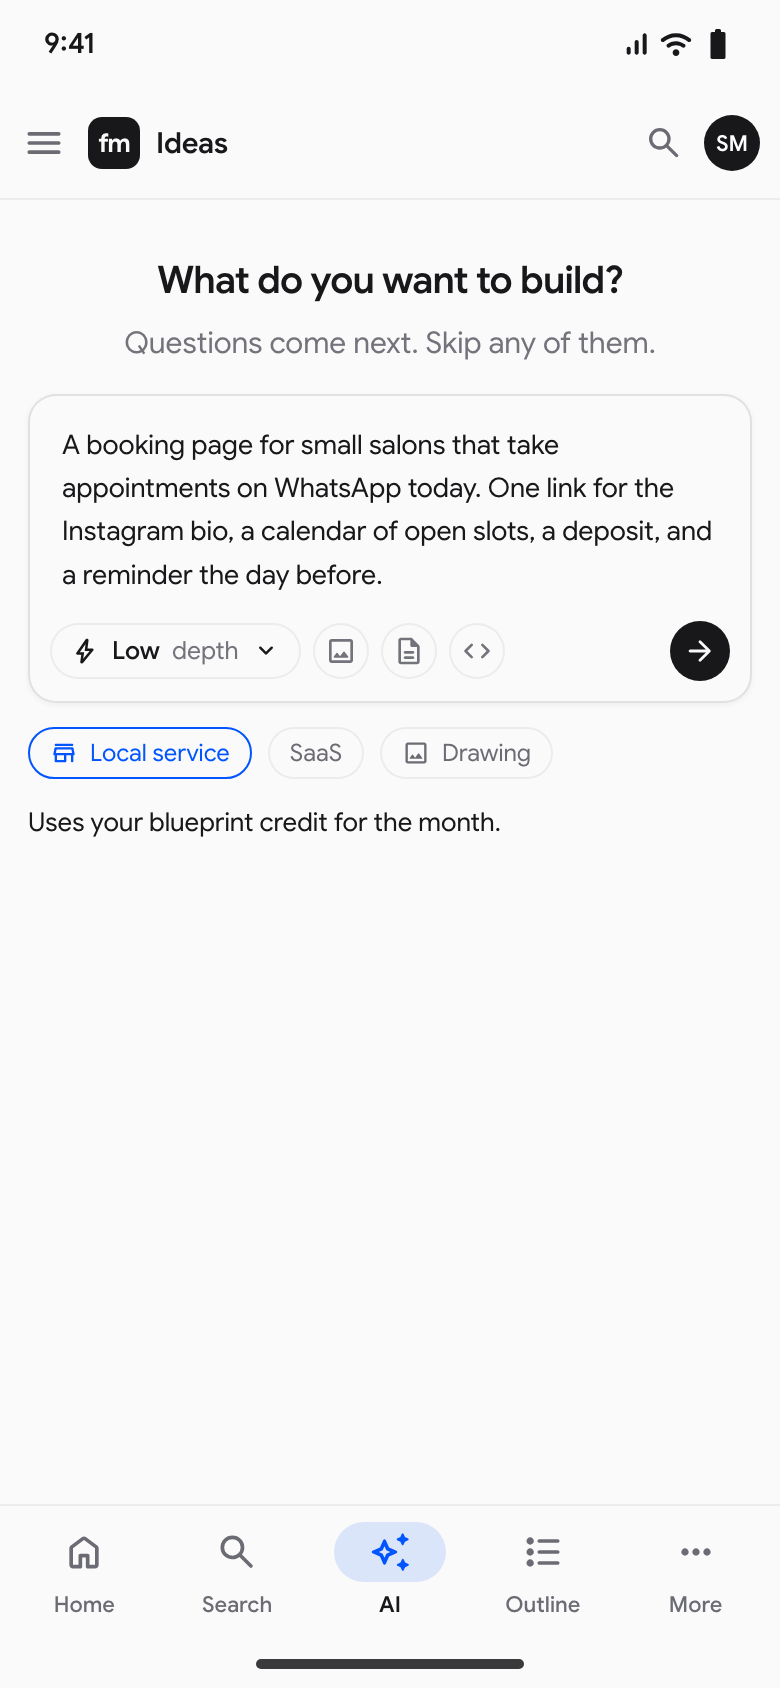
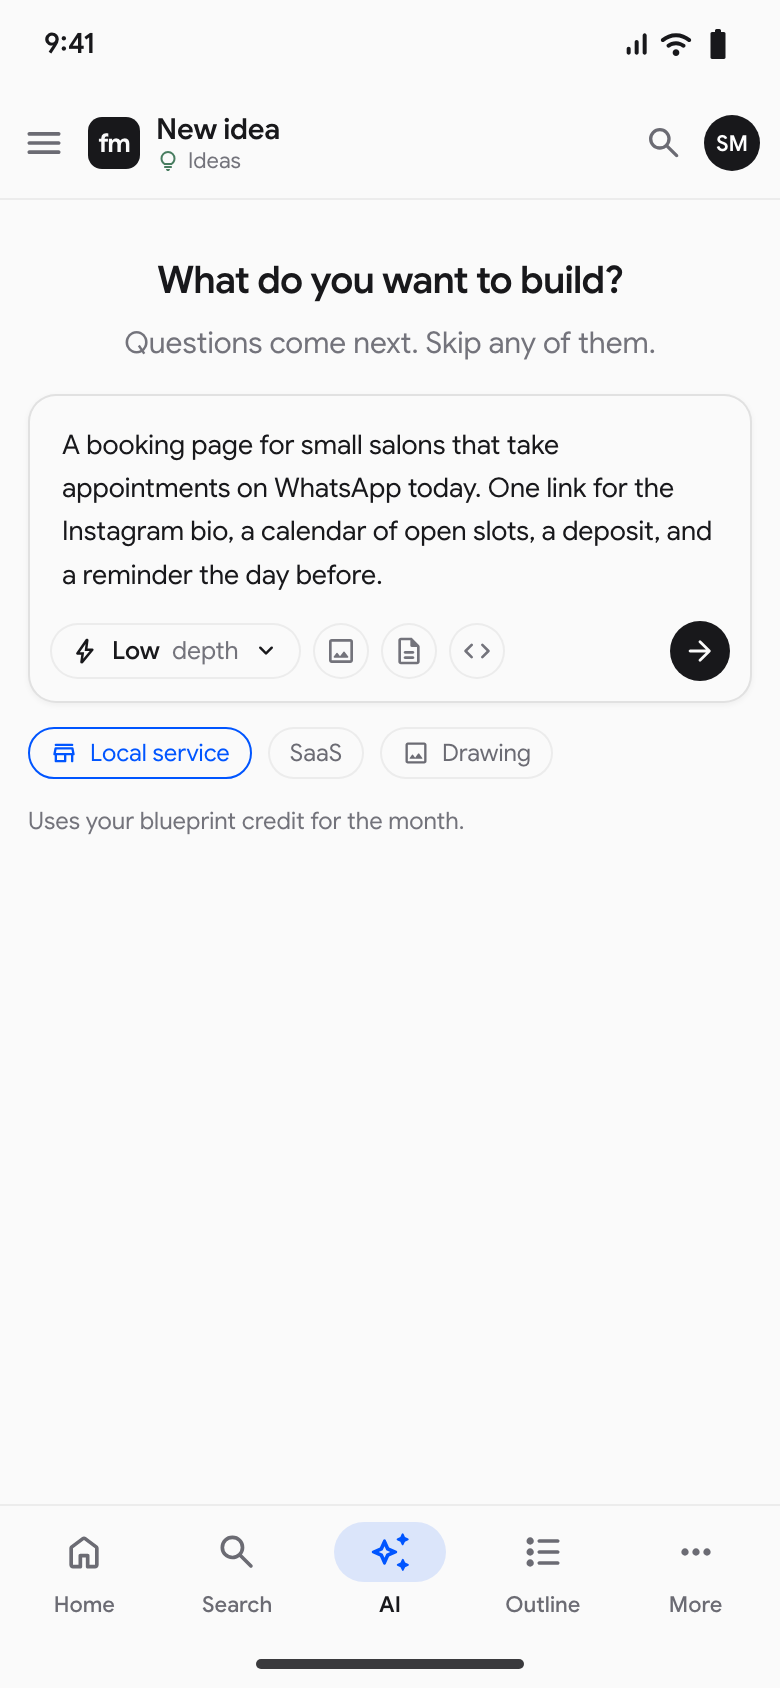
screens: ideas live in the workspace tree, S34 loses its breadcrumb, and the standard question set is drawn
S12, S13, S14 and S34 now sit in the workspace with the Ideas section of the tree
expanded, rather than on a route with its own sidebar. S34 is rebuilt on S12's column and
input. S13 carries the standard question set switch and the rewrites left on Free, S32
offers it for an idea, and the S13 and S14 phones pin Skip, Choose recommendation, Next
and Skip all to the foot as on the desktop.

Changed region(s): [[0.0308, 0.4621, 0.6154, 0.4929], [0.1846, 0.0616, 0.3692, 0.1232]]

diff --git a/docs/mvp0/PRODUCT-PLAN.md b/docs/mvp0/PRODUCT-PLAN.md
@@ -280,9 +280,9 @@ Later, named | A Max tier above Pro; a community as an opt-in index plus GitHub 
 3. The problems panel.
 4. The instruction-file health panel.
 
-**Ideas.** A separate tab.
+**Ideas.** A collapsed section at the foot of the workspace tree, the way the outline sits on the right. There is no separate tab or route `[Z]`.
 
-- Ideas are listed on the left, with their state.
+- Ideas are listed in that section, with their state. Opening one expands the section and folds the projects above it.
 - The idea, its attachments and the industry template sit in the middle.
 - **Choose a depth. Answer.**
 - The blueprint is written, checked for consistency, and published at an unlisted link.
@@ -337,7 +337,7 @@ Later, named | A Max tier above Pro; a community as an opt-in index plus GitHub 
 
 <div class="pair"><img src="screens/s03-home.png"><img src="screens/s03-home-phone.png"></div>
 
-- Recent documents with project, opened and owner. The Ideas tab carries a count.
+- Recent documents with project, opened and owner. The Ideas count sits on the home tabs; in the workspace, ideas are a section of the tree.
 - A quiet pill shows cloud documents used against the cap.
 - The phone shows four starts and the list.
 
@@ -452,11 +452,12 @@ Later, named | A Max tier above Pro; a community as an opt-in index plus GitHub 
 
 <div class="pair"><img src="screens/s12-ideas.png"><img src="screens/s12-ideas-phone.png"></div>
 
-- Ideas listed on the left with their state: draft, decided so far, blueprint version.
+- **Inside the workspace.** Ideas is the collapsed section at the foot of the tree; opening it lists the ideas with their state (draft, decided so far, blueprint version), and a new idea opens as a tab like a document `[Z]`.
+- One centred column and one input, the way Claude and ChatGPT start. No step breadcrumb.
 - The idea, an attached drawing, a document or a repository. An industry template, or one generated for your industry. The drawing is described in the frontend spec the kit now carries (F025).
 - The depth chooser: Low free, Medium Pro, High Pro plus credits. Start at Low and go deeper later without losing answers.
 
-**Why.** `[Z]` a separate tab with ideas on the left. `[Z]` the three depths. `[M]` Nielsen's progressive disclosure has two levels at most, and this is the second.
+**Why.** `[Z]` ideas as a section of the workspace, collapsed until wanted, answered on 18 September. `[Z]` the three depths. `[M]` Nielsen's progressive disclosure has two levels at most, and this is the second.
 
 ### S13. Idea mode, Low
 
@@ -473,6 +474,8 @@ Later, named | A Max tier above Pro; a community as an opt-in index plus GitHub 
 - Only the recommended option carries its reason. Not sure is a quiet link, not a third option in every card.
 - Not sure records the question as open and takes the recommendation for now; DECISIONS.md carries it as open, not as decided.
 - The blueprint's fifteen files are listed before a credit is spent.
+- **Use a standard question set** is a switch under the page controls, off by default. It is the fallback when the model layer is degraded or the rewrites are spent, and it shows how many rewrites are left on Free.
+- **The phone carries the same controls as the desktop**: Skip and Choose recommendation, then Next, pinned to the foot of the screen, with Skip all added from page two.
 
 **Why.** `[Z]` the founders' review of 18 September. `[Z]` 10 to 15 questions on the free plan. `[M]` PAIR: show alternatives rather than confidence, "Showing multiple options prompts the user to rely on their own judgement."
 
@@ -679,7 +682,8 @@ Later, named | A Max tier above Pro; a community as an opt-in index plus GitHub 
 <div class="pair"><img src="screens/s32-ai-unavailable.png"><img src="screens/s32-ai-unavailable-phone.png"></div>
 
 - The AI box when every provider in the chain has refused or timed out: the document is untouched, nothing was charged, try again in a minute, or on the desktop use the local model.
-- The status of each provider in the chain, so the person knows it is not their document.
+- The status of each provider in the chain, in its real order with OpenRouter in it, so the person knows it is not their document.
+- For an idea, one more path: use the standard question set, which needs no model.
 
 **Why.** `[M]` PAIR: "Provide paths forward from failure." `[P]` the chain has four links and the plan says what happens when the fourth fails.
 
@@ -697,7 +701,8 @@ Later, named | A Max tier above Pro; a community as an opt-in index plus GitHub 
 
 <div class="pair"><img src="screens/s34-ideas-empty.png"><img src="screens/s34-ideas-empty-phone.png"></div>
 
-- The Ideas tab before the first idea: what a blueprint is in one line, the three depths in one line each, and one box to start.
+- The Ideas section before the first idea, drawn in the workspace like S12: the same centred column and input with the depth selector, what a blueprint is in one line, and no step breadcrumb.
+- The empty state says in plain words that a folder of notes can be dropped here to start from.
 - One hand-made example kit to open and read, so the person sees the fifteen files before spending a credit.
 
 **Why.** `[M]` Nielsen: "Do not default to totally empty states." `[R]` the example kit is one of the twenty hand-made ones from Phase 0.
@@ -1393,7 +1398,7 @@ Every rule below is quoted from the page it came from, and each names the screen
 
 - **Progressive disclosure, two levels at most.** Nielsen: "designs that go beyond 2 disclosure levels typically have low usability". The toolbar has its twelve buttons and one More. The AI box has four chips and one second row. Settings has ten sections and no sub-sections.
 - **No tour.** Nielsen: "Tutorials interrupt users, don't necessarily improve task performance, and are quickly forgotten." Apple: "Consider providing a collection of context-specific tips instead of a single onboarding flow." A tip appears on the first hover of a control, once.
-- **Empty states are pathways.** Nielsen: "Do not default to totally empty states." Home shows five starts. The review queue, when empty, says what would appear. The Ideas tab has S34.
+- **Empty states are pathways.** Nielsen: "Do not default to totally empty states." Home shows five starts. The review queue, when empty, says what would appear. The Ideas section has S34.
 - **Sign-in first, named honestly.** Apple: "Delay sign-in for as long as possible." Nielsen: "Users want to start using the product right away." Jakob's law is the one source that supports the founders' choice: "users prefer your site to work the same way as all the other sites they already know", if the reference class is Google Docs and Notion. It is. So the sign-in is one tap, the page shows the editor, and published pages need no account.
 - **Reversible, visible, confirmable.** Nielsen's direct manipulation: "physical, incremental, and reversible actions whose effects are immediately visible on the screen." Every AI proposal previews in place, applies on a click, and undoes in one step.
 - **No confidence numbers.** PAIR: do not show confidence when "The confidence level isn't impactful"; prefer alternatives, which "prompts the user to rely on their own judgement". Idea mode shows options and a recommendation, never a percentage.
